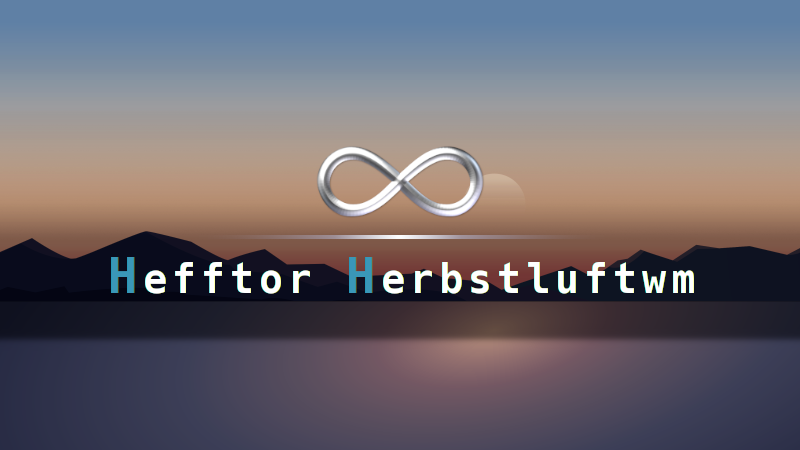
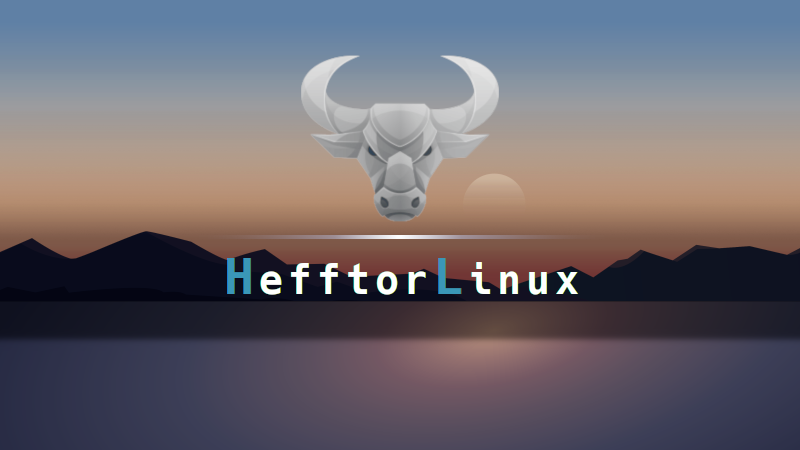
u

Changed region(s): [[0.375, 0.1244, 0.625, 0.4978], [0.125, 0.56, 0.875, 0.6533]]

diff --git a/calamares/branding/hefftorlinux/show.qml b/calamares/branding/hefftorlinux/show.qml
@@ -41,10 +41,22 @@ Presentation
 
         Image {
             id: background1
-            source: "calamares-0.png"
-            width: 800; height: 350
+            source: "calamares-1.png"
+            width: 1000; height: 625
             fillMode: Image.PreserveAspectFit
 			      anchors.centerIn: parent
+        }
+
+    }
+
+    Slide {
+
+        Image {
+            id: background2
+            source: "calamares-2.png"
+            width: 1000; height: 625
+            fillMode: Image.PreserveAspectFit
+                  anchors.centerIn: parent
         }
 
     }
